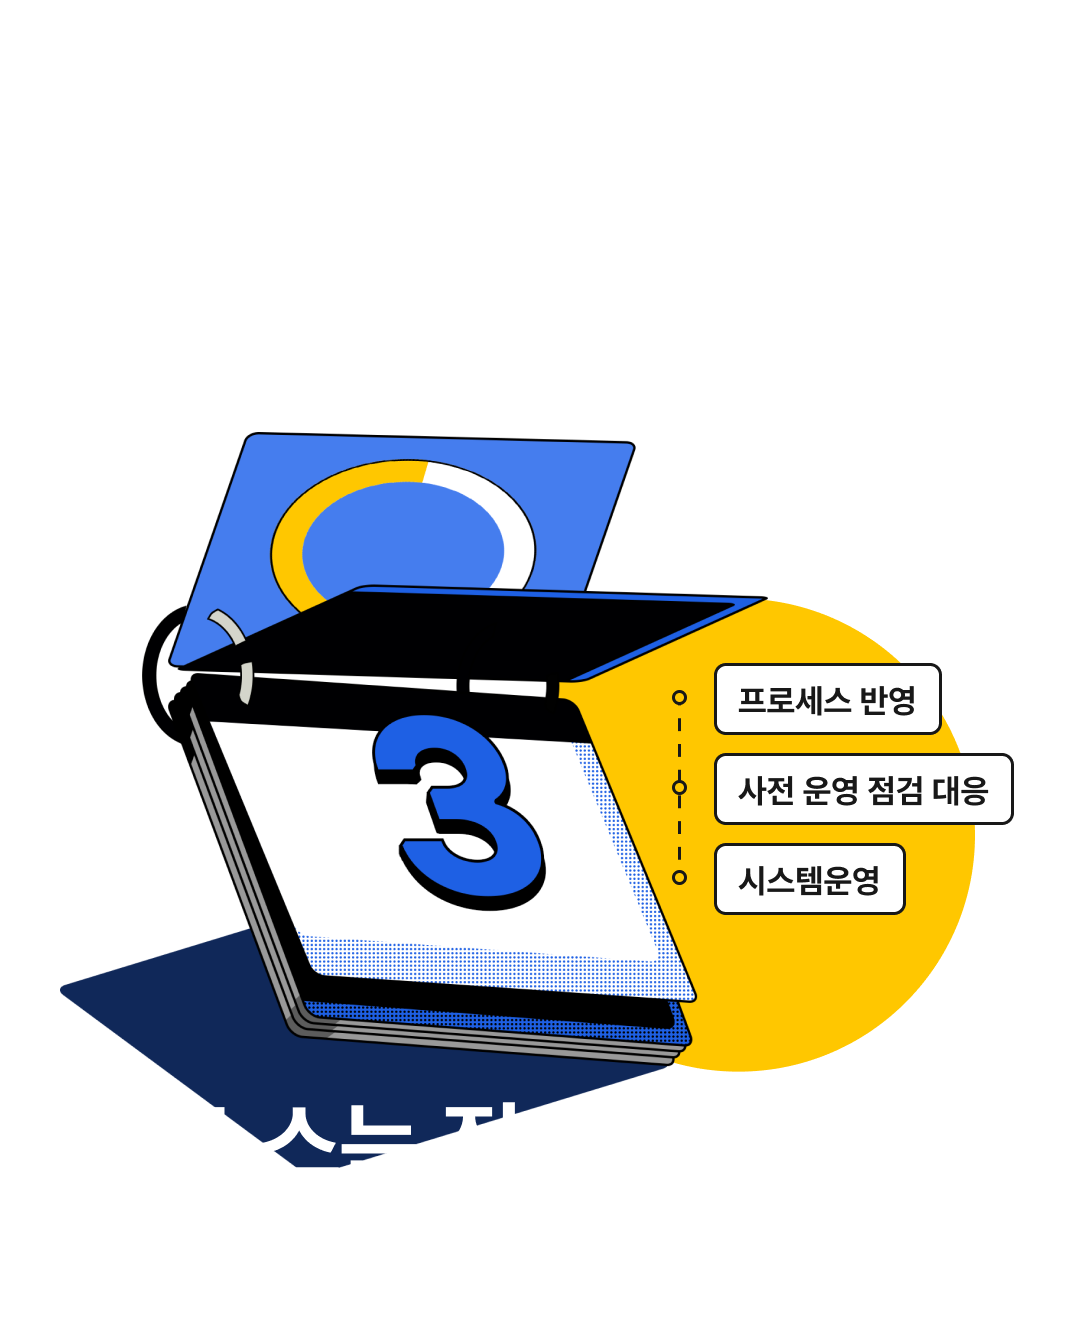
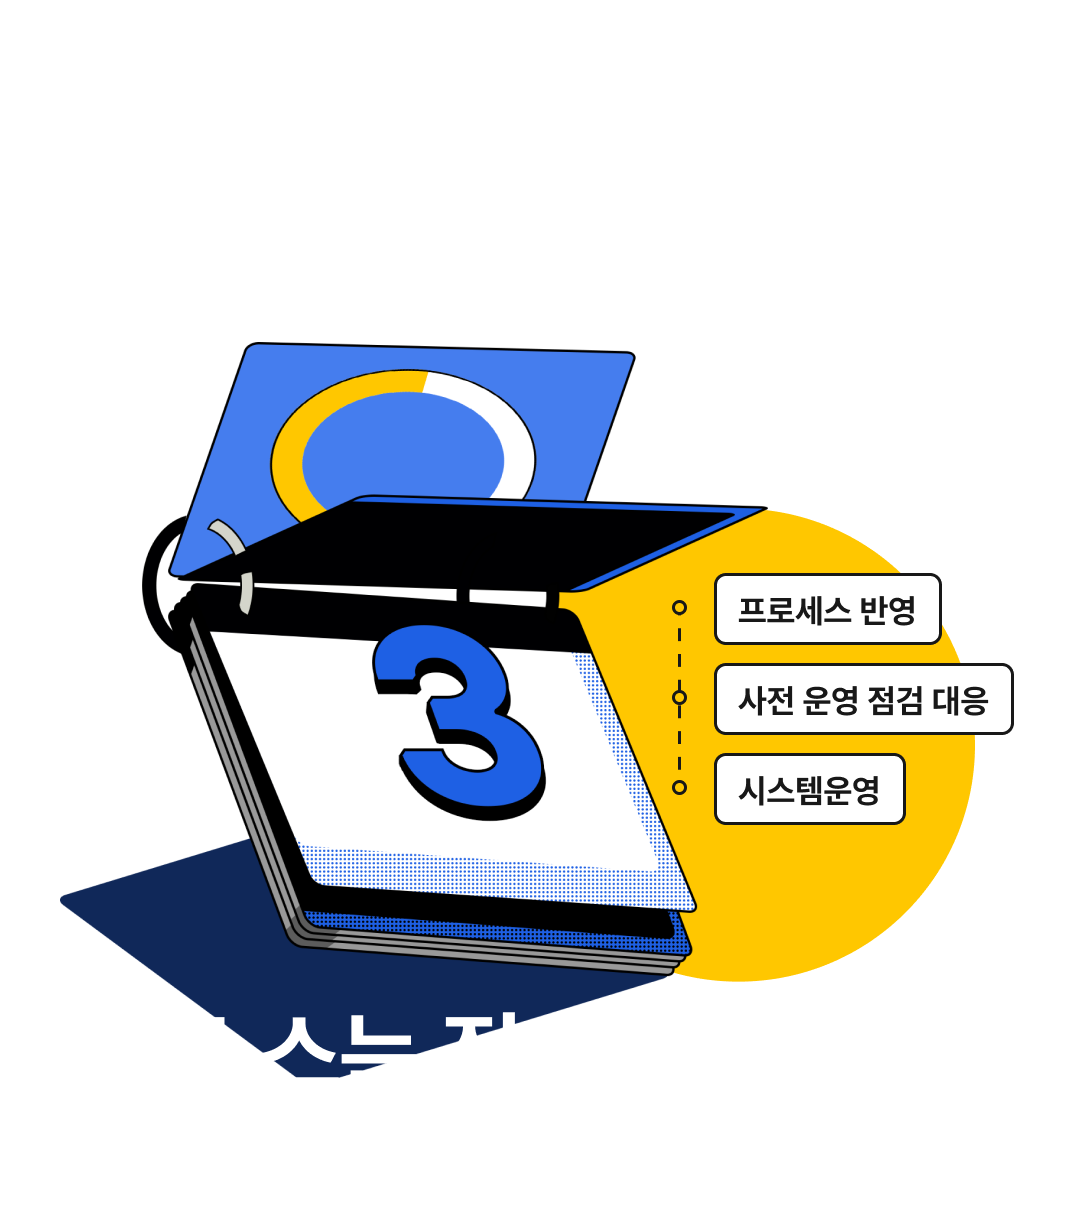
모바일 디바이스 체크

Changed region(s): [[0.0611, 0.2776, 0.9472, 0.8636], [0.7944, 0.6786, 0.8861, 0.7711], [0.1528, 0.8019, 0.2139, 0.8328]]

diff --git a/assets/css/style.css b/assets/css/style.css
@@ -278,14 +278,15 @@ html:not(.touchmode) ::-webkit-scrollbar-track {
   .info_symbol_list{margin-top:40px; gap:28px;}
   .info_symbol_list > li{flex:0 0 88px;}
   .info_symbol_item{max-width:88px;}
-  .info_symbol_img{width:100%;height:0; padding-bottom:35.22727272727273%; background:url("../images/obj_smile_mb.png") no-repeat 0 0/100% auto;}
   .info_symbol_spec{margin-top:16px;}
   .info_symbol_main{font-size:14px; }
   .info_symbol_sub{font-size:12px;}
   .info_signature_logo{margin-top:40px;}
   .info_signature_logo img{max-width:173px;}
-  
-  .about_blue_item{top:-70px;}
+  .main_scene.mc_02,
+  .main_scene.mc_03,
+  .main_scene.mc_04{justify-content: flex-start;padding-top:50px;}
+  .about_blue_item{top:0;}
 }
 @media (max-width:450px){
   .info_ui_title{font-size:8.889vw;}
